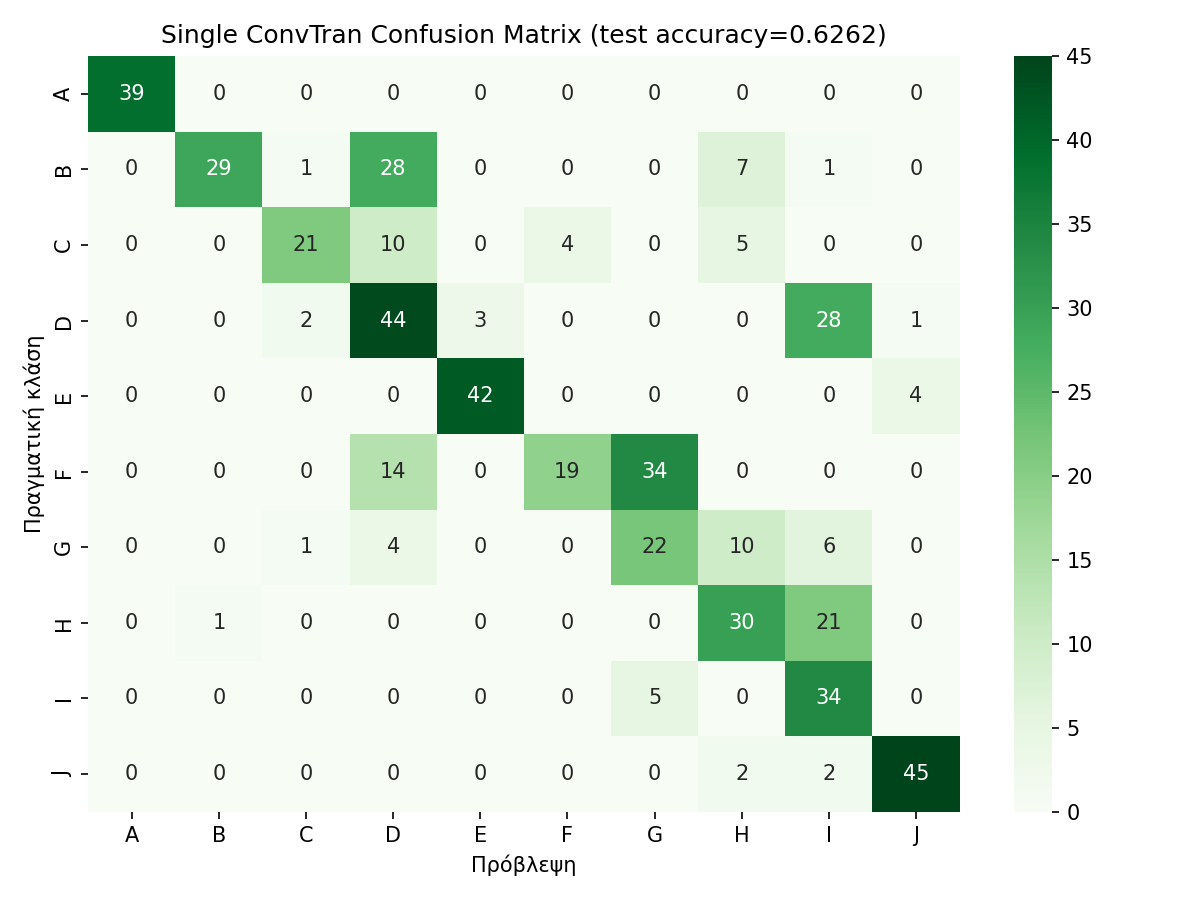
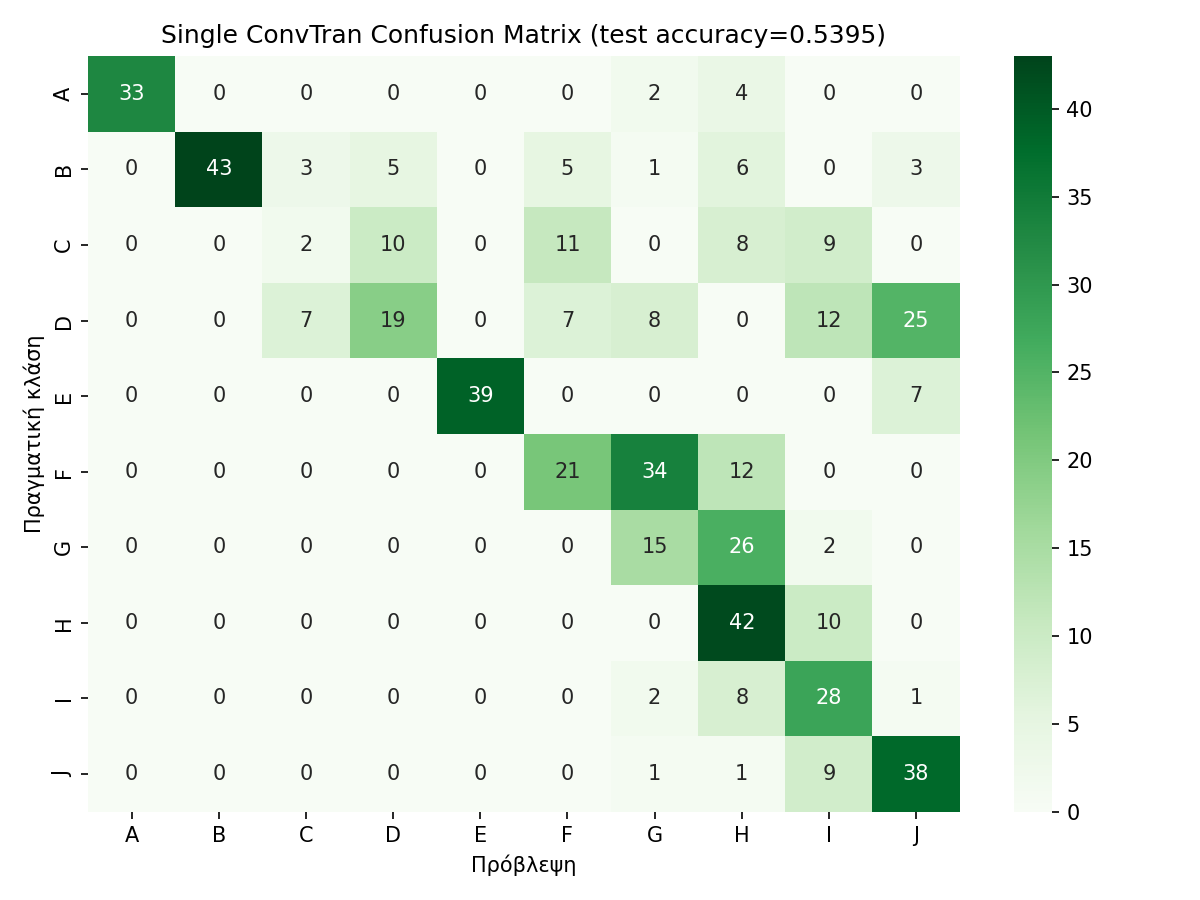
Last Call Touches

diff --git a/evaluate_single_contran.py b/evaluate_single_contran.py
@@ -1,0 +1,62 @@
+import os
+import numpy as np
+import torch
+import matplotlib.pyplot as plt
+import seaborn as sns
+from sklearn.metrics import accuracy_score, classification_report, confusion_matrix
+
+from models.model import ConvTran
+
+DEVICE = torch.device('cuda' if torch.cuda.is_available() else 'cpu')
+CHECKPOINT_PATH = 'outputs/models/convtran_single_full.pt'
+TEST_DATA_PATH = 'data/windows/full/test.npz'
+OUTPUT_PLOTS_DIR = 'outputs/plots'
+os.makedirs(OUTPUT_PLOTS_DIR, exist_ok=True)
+
+CLASS_NAMES = ['A', 'B', 'C', 'D', 'E', 'F', 'G', 'H', 'I', 'J']
+
+
+def load_model(checkpoint_path):
+    ckpt = torch.load(checkpoint_path, map_location=DEVICE, weights_only=False)
+    model = ConvTran(
+        num_features=ckpt['num_features'],
+        seq_len=ckpt['seq_len'],
+        num_classes=ckpt['num_classes'],
+        emb_size=ckpt['emb_size'],
+        num_heads=ckpt['num_heads'],
+        dim_ff=ckpt['dim_ff'],
+        dropout=ckpt['dropout'],
+    ).to(DEVICE)
+    model.load_state_dict(ckpt['model_state_dict'])
+    model.eval()
+    return model
+
+
+if __name__ == '__main__':
+    model = load_model(CHECKPOINT_PATH)
+
+    data = np.load(TEST_DATA_PATH)
+    X, y_test = data['X'], data['y']
+    X = X.astype(np.float32).transpose(0, 2, 1)  # (N, 60, 30) -> (N, 30, 60)
+    X_tensor = torch.from_numpy(X).to(DEVICE)
+
+    with torch.no_grad():
+        logits = model(X_tensor)  # ΚΑΝΟΝΙΚΗ πρόβλεψη τώρα, όχι embedding
+        y_pred = logits.argmax(dim=1).cpu().numpy()
+
+    acc = accuracy_score(y_test, y_pred)
+    print('=== Single ConvTran (χωρίς ensemble), πλήρες πρόβλημα 10 κλάσεων ===')
+    print(f'Test accuracy: {acc:.4f}')
+    print('\nClassification report:')
+    print(classification_report(y_test, y_pred, target_names=CLASS_NAMES))
+
+    cm = confusion_matrix(y_test, y_pred)
+    plt.figure(figsize=(8, 6))
+    sns.heatmap(cm, annot=True, fmt='d', cmap='Greens',
+                xticklabels=CLASS_NAMES, yticklabels=CLASS_NAMES)
+    plt.xlabel('Πρόβλεψη')
+    plt.ylabel('Πραγματική κλάση')
+    plt.title(f'Single ConvTran Confusion Matrix (test accuracy={acc:.4f})')
+    plt.tight_layout()
+    plt.savefig(os.path.join(OUTPUT_PLOTS_DIR, 'single_convtran_confusion_matrix.png'), dpi=150)
+    print(f'\nΑποθηκεύτηκε: {OUTPUT_PLOTS_DIR}/single_convtran_confusion_matrix.png')
